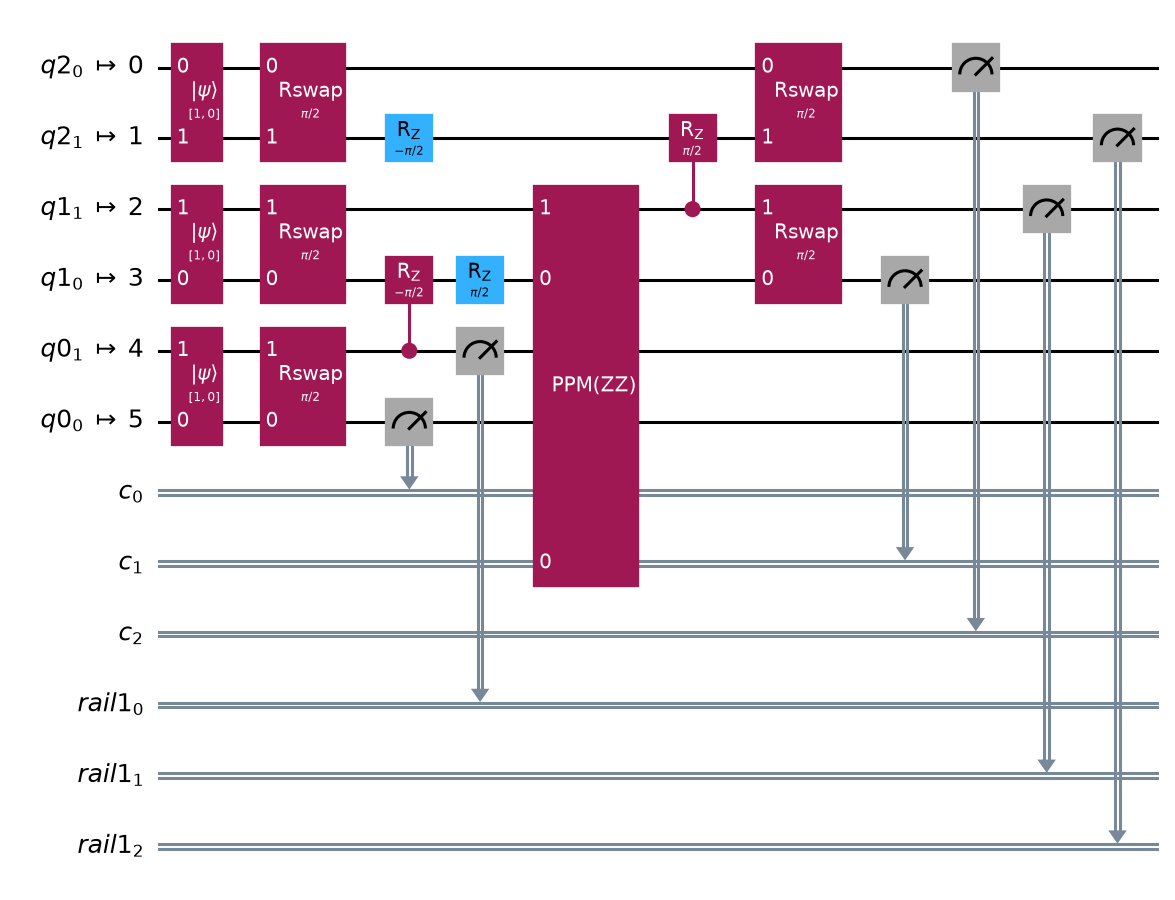
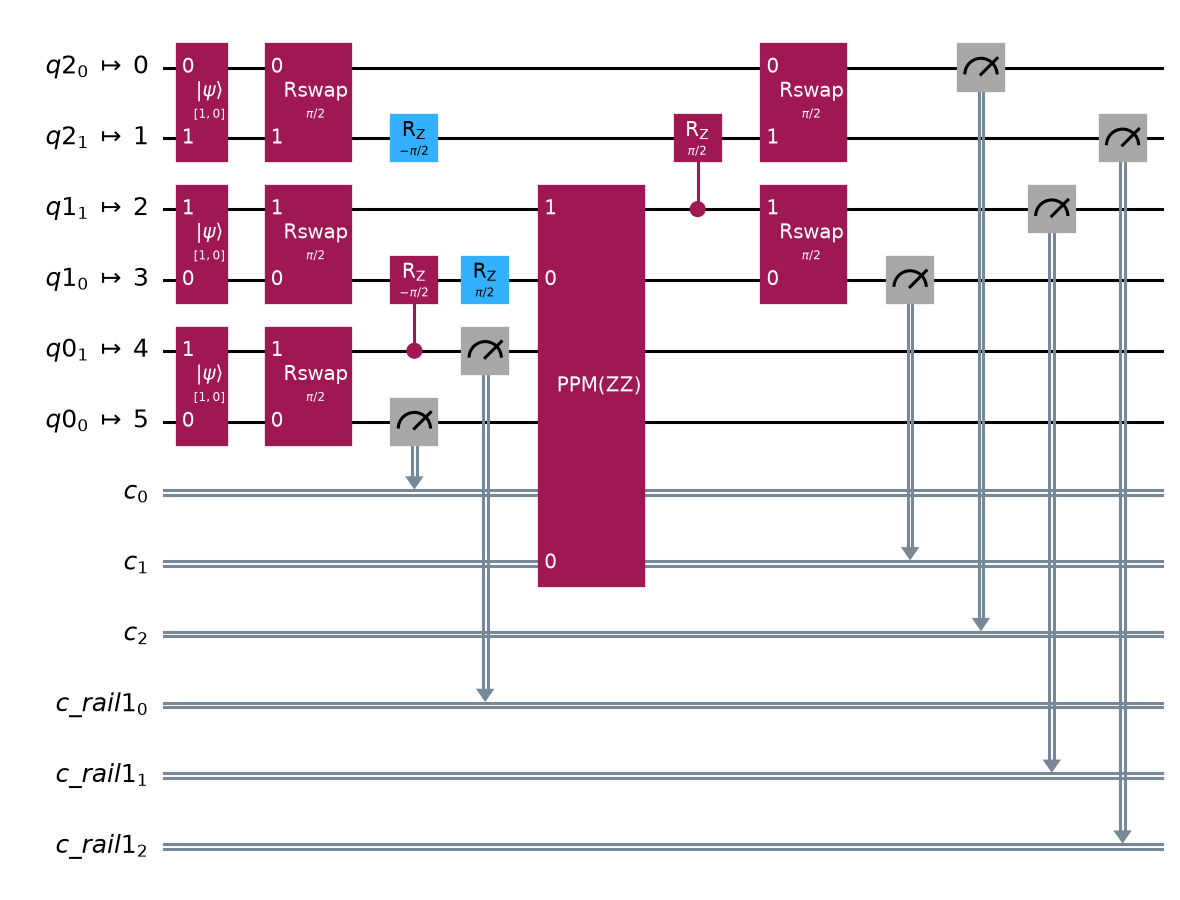
refactor(pipeline): each measured register gets a <name>_rail1 partner register

diff --git a/src/prism/pipeline.py b/src/prism/pipeline.py
@@ -56,8 +56,8 @@ class DAGToMultiRealization(GenericPass[DAGCircuit, MultiRealization]):
     """``DAGCircuit -> MultiRealization``: each logical operation becomes its encoding rule.
 
     Every logical qubit gets ``WIRES_PER_LOGICAL`` rails and the encoding's
-    preparation. A measurement writes the logical clbit from rail 0 and the
-    other rails to a ``rail1`` register. ``logical_output_permutation`` comes
+    preparation. A measurement writes rail 0 to its clbit ``c[i]`` and rail ``w``
+    to ``c_rail<w>[i]``, a register added per measured register. ``logical_output_permutation`` comes
     from the property set (set by ``ElideLogicalPermutations``).
     """
 
@@ -74,20 +74,28 @@ class DAGToMultiRealization(GenericPass[DAGCircuit, MultiRealization]):
         logical = {q: i for i, q in enumerate(dag.qubits)}
         cregs = list(dag.cregs.values())
         clbits = list(dag.clbits)
-        n_extra = sum(
-            node.op.num_qubits * (wpl - 1)
-            for node in dag.op_nodes()
-            if isinstance(node.op, Measure)
-        )
-        extra: list[Clbit] = []
-        if n_extra:
-            name, k = "rail1", 0
-            while name in dag.cregs:
-                k += 1
-                name = f"rail1_{k}"
-            cregs.append(ClassicalRegister(n_extra, name))
-            extra = list(cregs[-1])
-            clbits += extra
+        # Rail w of the measurement that writes clbit c goes to the partner of c
+        # in "<register>_rail<w>", one register per measured register.
+        measured = {node.cargs[0] for node in dag.op_nodes(Measure)}
+        sources = [
+            (f"{r.name}_", list(r)) for r in dag.cregs.values() if measured & set(r)
+        ]
+        loose = [
+            c for c in dag.clbits if c in measured and not dag.find_bit(c).registers
+        ]
+        if loose:
+            sources.append(("", loose))
+        partner: dict[tuple[Clbit, int], Clbit] = {}
+        for prefix, bits in sources:
+            for w in range(1, wpl):
+                name = f"{prefix}rail{w}"
+                while any(r.name == name for r in cregs):
+                    name += "_"
+                reg = ClassicalRegister(len(bits), name)
+                cregs.append(reg)
+                clbits += list(reg)
+                for bit, p in zip(bits, reg):
+                    partner.setdefault((bit, w), p)
 
         data = []
         prep = enc.initialize()
@@ -99,8 +107,8 @@ class DAGToMultiRealization(GenericPass[DAGCircuit, MultiRealization]):
             op = enc.lower(node.op, tuple(node.cargs))
             rails = tuple(wpl * logical[q] + w for q in node.qargs for w in range(wpl))
             if isinstance(node.op, Measure):
-                cl = (node.cargs[0], *extra[: op.num_clbits - 1])
-                extra = extra[op.num_clbits - 1 :]
+                c = node.cargs[0]
+                cl = (c, *(partner[c, w] for w in range(1, wpl)))
             else:
                 cl = tuple(node.cargs)
             data.append(MultiRealizationInstruction(op, rails, cl))

diff --git a/tests/test_ir.py b/tests/test_ir.py
@@ -54,7 +54,7 @@ def test_entrance_binds_rails_and_heralds():
     assert [ins.clbits[0] for ins in measures] == ir.clbits[
         :2
     ]  # logical bits read rail 0
-    assert ir.cregs[-1].name == "rail1" and len(ir.cregs[-1]) == 2
+    assert ir.cregs[-1].name == "c_rail1" and len(ir.cregs[-1]) == 2
 
 
 def test_to_circuit_materializes_choices_on_rails():

diff --git a/README.md b/README.md
@@ -44,12 +44,12 @@ The output, on rails `q<i>_0` and `q<i>_1` of logical qubit `i`:
 - `rx` is an `rswap` between the qubit's two rails.
 - Each `crz` runs between one rail of each qubit; the router picked a different rail pair for each, with an `rz` correcting an open control.
 - The erasure check is a ZZ measurement on qubit 1's two rails; it writes the rail parity to `c[1]`, which the final measurement later overwrites, and leaves the logical state alone.
-- Each measurement reads both rails: rail 0, the logical bit, into `c` and rail 1 into `rail1`; the pair heralds a lost photon (both 0).
+- Each measurement reads both rails: rail 0, the logical bit, into `c` and rail 1 into `c_rail1`; the pair heralds a lost photon (both 0).
 
 `dualrail_pm` returns a Qiskit `PassManager`; it is `prism.pipeline.build_pm(coupling_map, DualRail, ...)`, which takes any `QubitEncoding`. After a run, `pm.property_set` holds `circuit_metrics`, `online_n_swaps` (routing SWAPs) and `logical_output_permutation`.
 `out.layout` is a rail-level `TranspileLayout`: virtual qubit `2*i + w` is rail `w` of logical qubit `i`.
 `SearchBudget` sets the layout search effort and the objective, `"swaps"` (default) or `"depth"`.
-A measurement writes rail 0 (the logical bit) to the circuit's clbit and rail 1 to a `rail1` register; together they herald a lost photon.
+A measurement into `c[i]` writes rail 0 (the logical bit) there and rail 1 to `c_rail1[i]`, a register prism adds for each measured register; together they herald a lost photon.
 
 ## Gate sets
 
